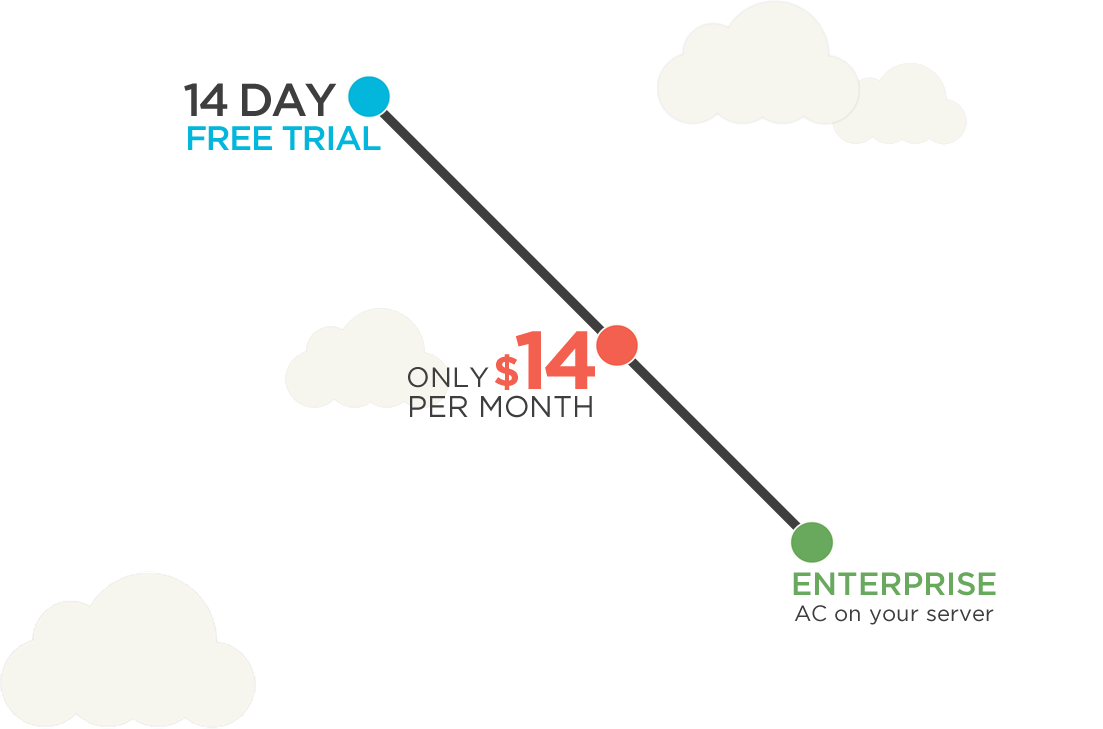
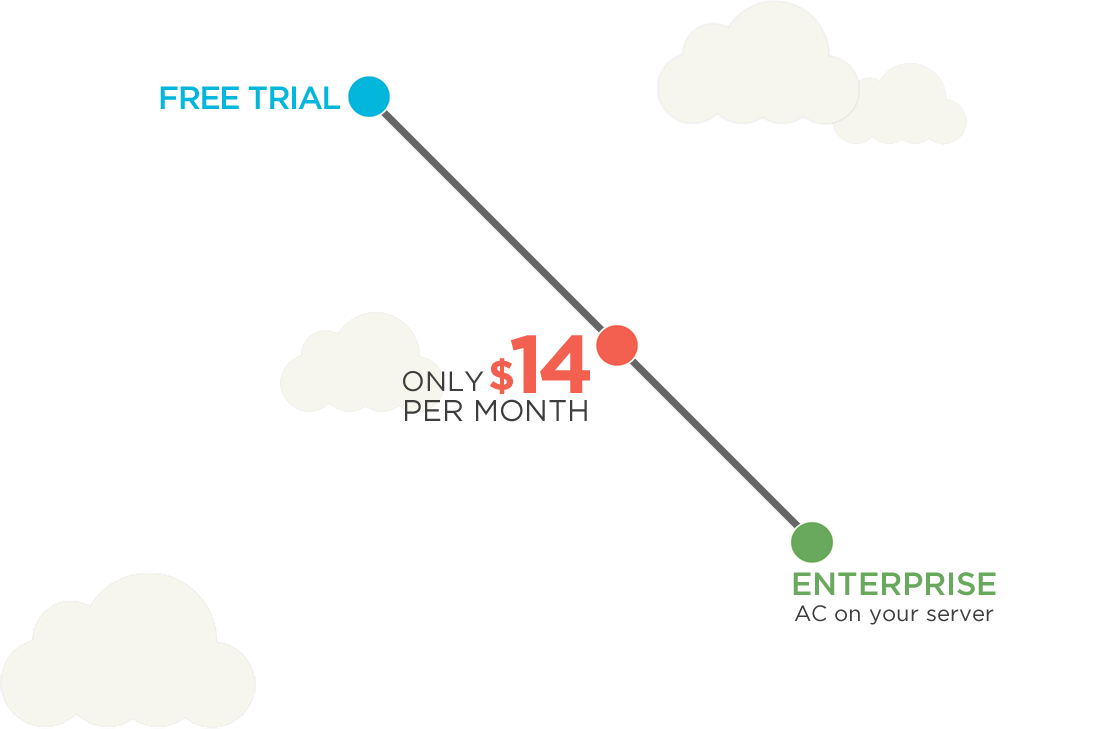
Added titles to pricing

diff --git a/source/css/products/_pricing.css.scss b/source/css/products/_pricing.css.scss
@@ -1,5 +1,12 @@
 body.products {
 
+  #overview-sections {
+    display: none;
+    @include apply-to(more-than, iphone-landscape) {
+      display: block;
+    }
+  }
+
   #pricing-section {
     background: transparent url('/img/products/track2.png') no-repeat center center;
     position: relative;
@@ -12,15 +19,21 @@ body.products {
       height: 729px;
     }
 
+    h3 {
+      font: 32px gotham_mediumregular;
+      text-transform: uppercase;
+      margin: 0;
+    }
+
     article {
       font-size: 16px;
       position: relative;
 
       &:nth-child(1) {
         width: 315px;
-        top: 145px;
+        top: 108px;
         text-align: right;
-        left: 33px;
+        left: 5px;
 
         a {
           font-family: gotham_mediumregular;
@@ -29,7 +42,7 @@ body.products {
       }
       &:nth-child(2) {
         width: 350px;
-        top: 78px;
+        top: 42px;
         left: 574px;
 
         a {
@@ -37,12 +50,24 @@ body.products {
           text-transform: uppercase;
           margin-left: 13px;
         }
+
+        p {
+          margin-top: 0;
+        }
       }
       &:nth-child(3) {
         width: 415px;
-        top: 228px;
+        top: 184px;
         left: 297px;
         text-align: right;
+
+        h3 {
+          font-size: 28px;
+        }
+
+        p {
+          margin-top: 0;
+        }
       }
     }
   }
